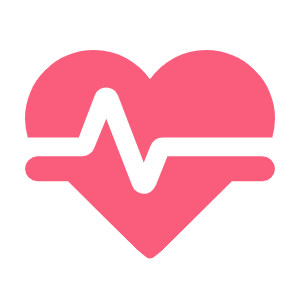
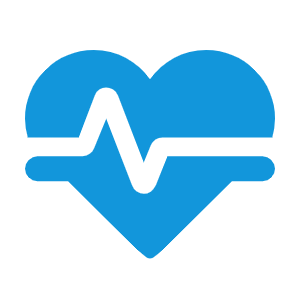
📃 docs: README完善 🌈 style: 更换logo

diff --git a/apps/backend/public/view/index/index/index.html b/apps/backend/public/view/index/index/index.html
@@ -13,101 +13,6 @@
 
         <div class="mdui-row-xs-1 mdui-row-sm-2 mdui-row-md-3 mdui-row-lg-3">
 
-            <!-- ENV -->
-            <div class="mdui-col mdui-m-b-1">
-                <div class="mdui-card">
-
-                    <!-- 卡片头部，包含头像、标题、副标题 -->
-                    <div class="mdui-p-a-2">
-                        <div class="css-caard-header-title">
-                            <i class="mdui-icon material-icons">insert_comment</i>
-                            通知
-                        </div>
-                    </div>
-                    <div class="mdui-card-media">
-                        <div class="css-cards-img mdui-m-x-1">
-                            <img src="https://test.fatda.cn/uploads/20210704538378743.jpg" />
-                        </div>
-                    </div>
-
-                    <!-- 卡片的内容 -->
-                    <div class="mdui-p-a-2 mdui-typo">
-                        <div class="mdui-p-t-1 css-cards-primary-content">
-                            LC2内部线上测试<br>
-                            线上测试不定期更新，有许多功能还未完善，线上测试的目的也是为了让大家测试已有的功能细节，以保证在更底层优化掉大部分问题，基础版本发布后期会很难从底层代码改！<br>
-                            这并非最终发布版本，如有ui或使用逻辑问题建议还请及时反馈！<br>
-                            后台地址 <a href="/admin">/admin</a>，u/p:testtest/testtest<br><br>
-                            基础版本开发便签：<br>
-                            -2022年9月1日<br>
-                            --懒得记录了<br>
-                            -2023年1月8日<br>
-                            --优化.前后端部分页面<br>
-                            --更新.后台标签管理模块<br>
-                            --更新.后台卡片管理模块<br>
-                            -2023年1月10日<br>
-                            --更新.点赞接口<br>
-                            -2023年1月11日<br>
-                            --优化.卡片页面<br>
-                            -2023年1月12日<br>
-                            --更新.评论增、删、改接口<br>
-                            --优化.卡片详情页评论组件<br>
-                            -2023年1月14日<br>
-                            --更新.后台评论管理模块<br>
-                            --更新.前台评论组件<br>
-                            -2023年1月16日<br>
-                            --更新.前台搜索模块<br>
-                            -2023年1月17日<br>
-                            --优化.前台前端代码<br>
-                            -2023年1月18日<br>
-                            --优化.前台前端组件代码<br>
-                            --更新.前台推荐模块<br>
-                            -2023年1月20日<br>
-                            --修复.评论顺序以及弹窗<br>
-                            -2023年1月23日<br>
-                            --更新.管理员权限<br>
-                            -2023年1月26日<br>
-                            --更新.后台总览模块<br>
-                            -2023年1月27日<br>
-                            --更新.后台总览图表<br>
-                            -2023年1月28日<br>
-                            --优化.后台后端代码<br>
-                            -2023年1月29日<br>
-                            --更新.前台标签合集模块<br>
-                            -2023年1月30日<br>
-                            --优化.前台前端美化<br>
-                            --优化.数据库utf8mb4支持小黄脸<br>
-                            -2023年2月16-2月18日<br>
-                            --更新.模板系统<br>
-                            -2023年2月24日<br>
-                            --更新.交流版块<br>
-                            -2023年3月17日<br>
-                            --更新.前端模板-分享功能<br>
-                            -2023年3月18日<br>
-                            --优化.前端模板-分享功能<br>
-                            -2023年3月19日<br>
-                            --优化.前端模板-分享功能<br>
-                            --更新.后端接口防抖<br>
-                            -2023年3月20日<br>
-                            --更新.前端图片放大查看<br>
-                            --优化.前端代码复用<br>
-                            -2023年3月21日<br>
-                            --更新.浏览量统计功能<br>
-                            -2023年4月19日<br>
-                            --更新.后台系统消息<br>
-                            -2023年4月20日<br>
-                            --更新.高级搜索功能<br>
-                            -2023年4月25日<br>
-                            --更改.cardAdd交流卡TA名字提交<br>
-                            --修复.systemView目录获取数组问题<br>
-                            -2023年5月4日-2023年5月6日<br>
-                            --更新.前端安装引导程序<br>
-                            --更新.后端数据库配置API<br>
-                        </div>
-                    </div>
-
-                </div>
-            </div>
-
             <!-- TOP 卡片循环 -->
             {volist name='cardsListData' id='data'}
             <div class="mdui-col mdui-m-b-2">

diff --git a/apps/backend/readme.md b/apps/backend/readme.md
@@ -1,29 +1,85 @@
-# LoveCards2  
+<h1 align="center">
+  <br>
+  <a href="https://lovecards.cn/" alt="logo" ><img src="https://i.imgloc.com/2023/05/20/Vyh7jo.png" width="150"/></a>
+  <br>
+  LoveCards
+  <br>
+</h1>
+<h4 align="center">或许，它可以不只是表白墙.</h4>
 
-### DEV环境  
-PHP8+Composer+mysql  
+<p align="center">
+  <a href="https://github.com/zhiguai/LoveCards/releases">
+    <img src="https://img.shields.io/github/v/release/zhiguai/LoveCards?include_prereleases&style=flat-square" />
+  </a>
+</p>
 
-### TP6依赖安装  
-composer install
+<p align="center">
+  <a href="https://lovecards">主页</a> •
+  <a href="https://test123.chizg.cn">演示站</a> •
+  <a href="https://forum.cloudreve.org/">QQ群组</a> •
+  <a href="https://github.com/cloudreve/Cloudreve/releases">下载</a> •
+</p>
 
-### 基本配置 
-关闭放跨站(宝塔)  
-设置运行目录为Public  
-导入数据库  
-修改“em.env”文件为“env”并修改数据库信息  
+## 🌟 亮点
 
-### 注意  
-当前版本并非LoveCards正式发行版本
-请及时关注该仓库或加入QQ交流群获取更新通知  
-如有安装问题请搜索“TP6程序宝塔部署教程”或加入QQ交流群咨询（请先学会如何正确提问）  
-项目官网<a href="https://lovecards.cn">lovecards.cn</a>(维护中)  
+🗃 不止表白卡，更有交流卡  
+✨ 标签系统，你的站点，你的热点，你创造  
+💙 模板系统，给你无限可能  
+📤 卡片不限字数，支持多图片上传  
+💻 支持评论，点赞，让互动性拉满  
+👩👧👦 管理后台可添加多个管理员  
+🔗 卡片一键分享至多平台  
+👁🗨 卡片浏览次数统计  
+🚀 发行版开箱即用  
+🌈 ... ...
 
-### 开发相关  
-LC2模板存放目录“public\view\index\”,例如：默认模板路径“public\view\index\index”  
-说明：目前LC2支持模板开发，具体开发文档暂未完成，可参考默认模板以及ThinkTemplate开发指南(注意：config.ini不可少)  
-<a href="https://www.kancloud.cn/manual/think-template/1286403">ThinkTemplate开发指南(LC2模板开发语法指南)</a>  
-<a href="https://console-docs.apipost.cn/preview/ad83ecdb4f10e38b/e187796270055b7b">API文档</a>(待完善)  
+## 🛠 部署
 
-### 联系方式  
-<a href="https://jq.qq.com/?_wv=1027&k=QTRjFYyB">QQ交流群801235342</a>  
-如有问题，请先加群咨询
+#### 1. 环境（参考开发环境）
+
+Nginx/Apache  
+PHP8+  
+Composer  
+mysql
+
+#### 2. TP6 安装依赖（发行版跳过）
+
+`composer install`
+
+#### 3. 配置
+
+1. 设置运行目录为“Public”
+2. 设置伪静态，伪静态规则参考“Public”目录下的“nginx.htaccess”与“nginx.htaccess”
+3. 删除“lock.txt”安装记录文件
+4. 赋予程序根目录操作权限为“777（出现异常时可选）
+5. 关闭防跨站(宝塔可选)
+
+#### 4. 进入网站自动跳转至安装引导
+
+## ⚠ 注意
+
+请及时关注该仓库或加入 QQ 交流群获取更新通知  
+如有安装问题请搜索“TP6 程序宝塔部署教程”或加入 QQ 交流群咨询（请先学会如何正确提问）  
+项目官网<a href="https://lovecards.cn">lovecards.cn</a>
+
+## 👨💻 开发者看过来
+
+#### 模板说明
+
+-   LC2 模板存放目录“public\view\index\”,例如：默认模板路径“public\view\index\index”
+-   目前 LC2 支持模板开发，具体开发文档暂未完成，可参考默认模板以及 ThinkTemplate 开发指南(注意：config.ini 不可少)
+-   <a href="https://www.kancloud.cn/manual/think-template/1286403">ThinkTemplate 开发指南(LC2 模板开发语法指南)</a>
+-   <a href="https://console-docs.apipost.cn/preview/ad83ecdb4f10e38b/e187796270055b7b">API 文档</a>(待完善)
+
+## ⚗ 技术栈
+
+-   [PHP](https://www.php.net "PHP")+[ThinkPHP6](https://www.thinkphp.cn/ "ThinkPHP6")
+-   [MDUI](https://www.mdui.org/ "MDUI")+[Jquery](https://jquery.com/ "Jquery")
+
+## 👯♀👯♂ 大家庭
+
+<a href="https://jq.qq.com/?_wv=1027&k=QTRjFYyB">QQ 交流群 801235342</a>  
+**如有问题，请先加群咨询**
+
+## 📜 License
+GPL V3

diff --git a/apps/backend/VerLog.md b/apps/backend/VerLog.md
@@ -1,0 +1,98 @@
+## 开发日志
+
+-   2023 年 5 月 4 日-2023 年 5 月 6 日  
+    --更新.前端安装引导程序  
+    --更新.后端数据库配置 API
+
+-   2023 年 4 月 25 日  
+    --更改.cardAdd 交流卡 TA 名字提交  
+    --修复.systemView 目录获取数组问题
+
+-   2023 年 4 月 20 日  
+    --更新.高级搜索功能
+
+-   2023 年 4 月 19 日  
+    --更新.后台系统消息
+-   2023 年 3 月 21 日  
+    --更新.浏览量统计功能
+
+-   2023 年 3 月 20 日  
+    --更新.前端图片放大查看  
+    --优化.前端代码复用
+
+-   2023 年 3 月 19 日  
+    --优化.前端模板-分享功能  
+    --更新.后端接口防抖
+
+-   2023 年 3 月 18 日  
+    --优化.前端模板-分享功能
+
+-   2023 年 3 月 17 日  
+    --更新.前端模板-分享功能
+
+-   2023 年 2 月 24 日  
+    --更新.交流版块
+
+-   2023 年 2 月 16-2 月 18 日  
+    --更新.模板系统
+
+-   2023 年 1 月 30 日  
+    --优化.前台前端美化  
+    --优化.数据库 utf8mb4 支持小黄脸
+
+-   2023 年 1 月 29 日  
+    --更新.前台标签合集模块
+
+-   2023 年 1 月 28 日  
+    --优化.后台后端代码
+
+-   2023 年 1 月 27 日  
+    --更新.后台总览图表
+
+-   2023 年 1 月 26 日  
+    --更新.后台总览模块
+
+-   2023 年 1 月 23 日  
+    --更新.管理员权限
+
+-   2023 年 1 月 20 日  
+    --修复.评论顺序以及弹窗
+
+-   2023 年 1 月 18 日  
+    --优化.前台前端组件代码  
+    --更新.前台推荐模块
+
+-   2023 年 1 月 17 日  
+    --优化.前台前端代码
+
+-   2023 年 1 月 16 日  
+    --更新.前台搜索模块
+
+-   2023 年 1 月 14 日  
+    --更新.后台评论管理模块  
+    --更新.前台评论组件
+
+-   2023 年 1 月 12 日  
+    --更新.评论增、删、改接口  
+    --优化.卡片详情页评论组件
+
+-   2023 年 1 月 11 日  
+    --优化.卡片页面
+
+-   2023 年 1 月 10 日  
+    --更新.点赞接口
+
+-   2023 年 1 月 8 日  
+    --优化.前后端部分页面  
+    --更新.后台标签管理模块  
+    --更新.后台卡片管理模块
+
+-   2022 年 9 月 1 日  
+    --懒得记录了
+
+## 发行日志
+
+-   2023 年 5 月 20 日  
+    --Ver：1.0.0  
+    --VerS：2.0.0  
+    --commit：发布
